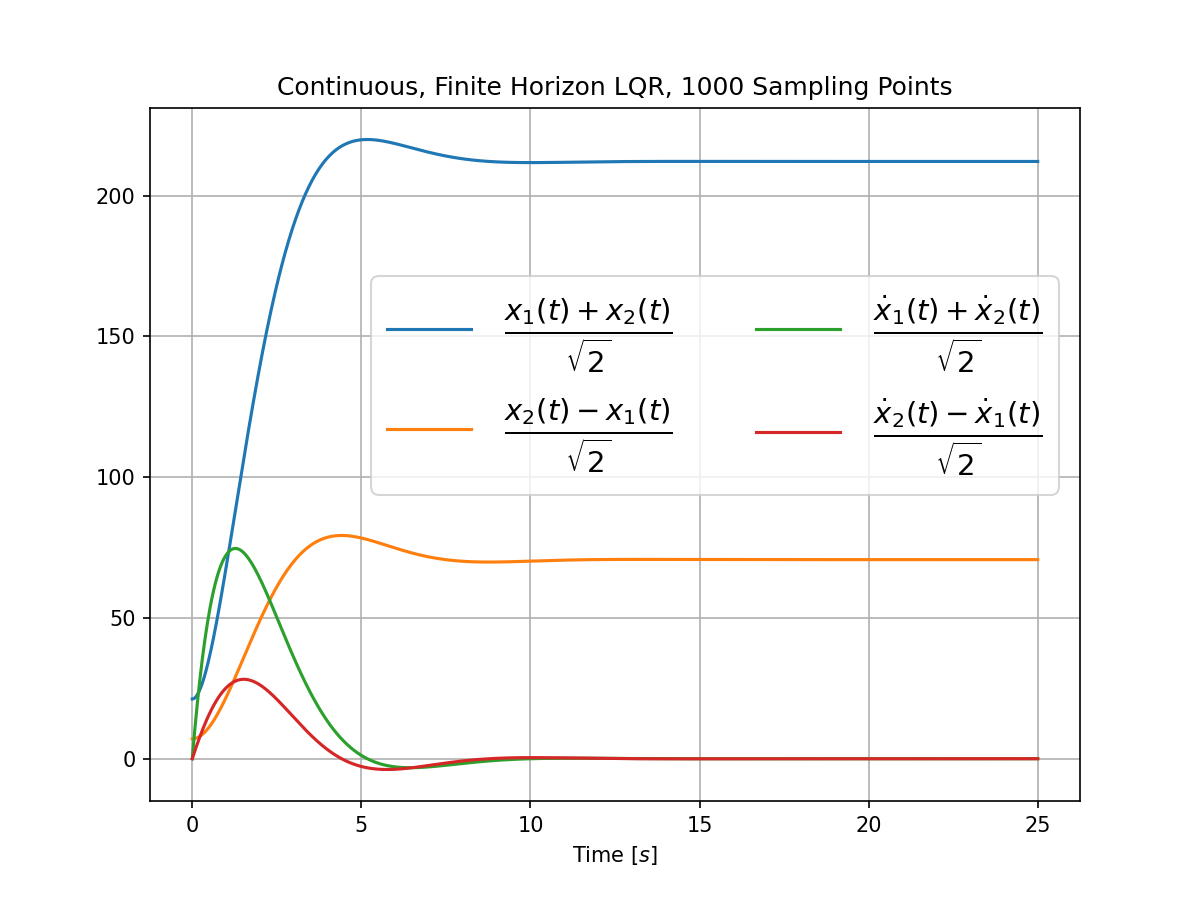
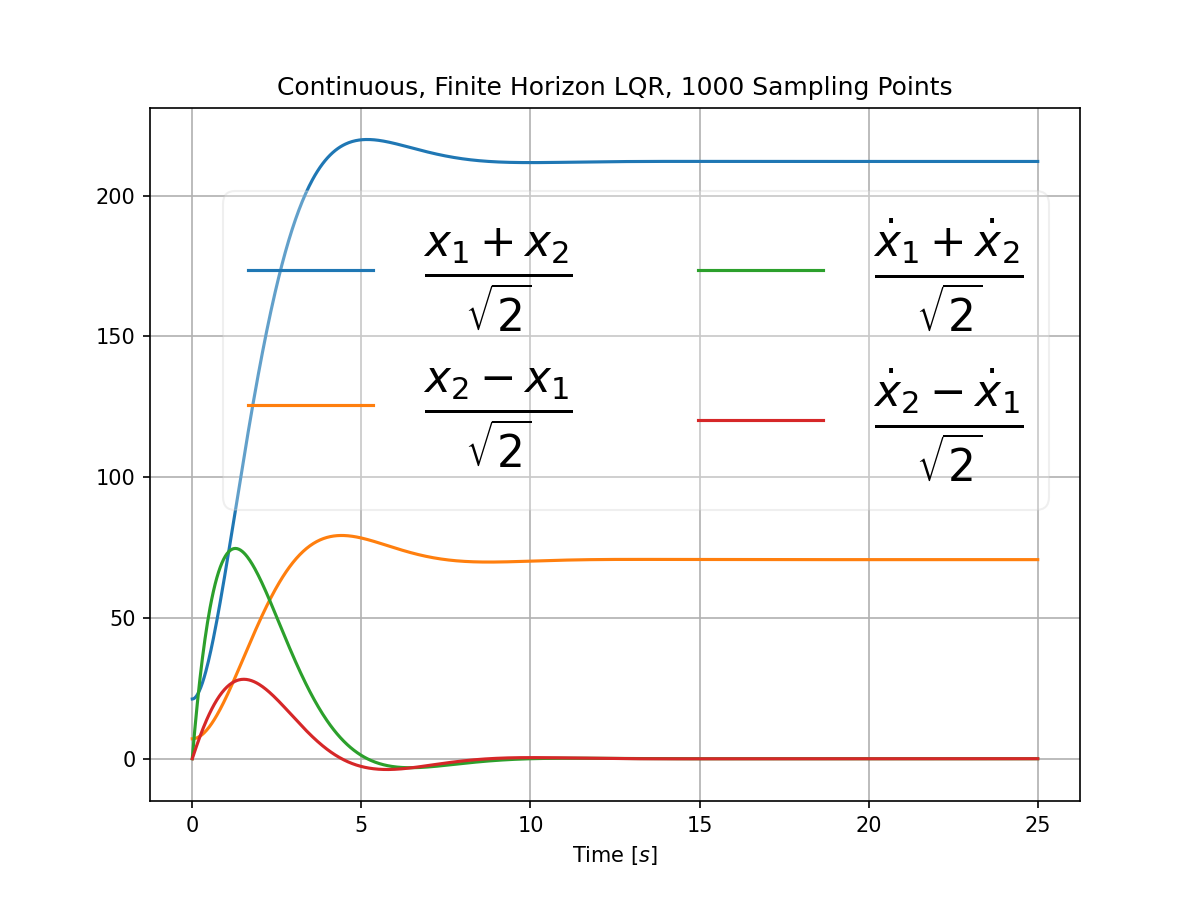
updated images font sizes

Changed region(s): [[0.3083, 0.2489, 0.8942, 0.56], [0.185, 0.4356, 0.3083, 0.4667], [0.2158, 0.28, 0.3083, 0.3111]]

diff --git a/src/PyDiffGame/examples/MassesWithSpringsComparison.py b/src/PyDiffGame/examples/MassesWithSpringsComparison.py
@@ -136,10 +136,10 @@ class MassesWithSpringsComparison(PyDiffGameLQRComparison):
         return all_unit_vectors
 
 
-N2_output_variables_names = ['$\\frac{x_1(t) + x_2(t)}{\\sqrt{2}}$',
-                             '$\\frac{x_2(t) - x_1(t)}{\\sqrt{2}}$',
-                             '$\\frac{\\dot{x}_1(t) + \\dot{x}_2(t)}{\\sqrt{2}}$',
-                             '$\\frac{\\dot{x}_2(t) - \\dot{x}_1(t)}{\\sqrt{2}}$']
+N2_output_variables_names = ['$\\frac{x_1 + x_2}{\\sqrt{2}}$',
+                             '$\\frac{x_2 - x_1}{\\sqrt{2}}$',
+                             '$\\frac{\\dot{x}_1 + \\dot{x}_2}{\\sqrt{2}}$',
+                             '$\\frac{\\dot{x}_2 - \\dot{x}_1}{\\sqrt{2}}$']
 
 
 def multiprocess_worker_function(N: int,
@@ -153,8 +153,7 @@ def multiprocess_worker_function(N: int,
     x_T = x_0 * 10 if N == 2 else np.array([(10 * i) ** 3 for i in range(1, N + 1)] + [0] * N)
 
     output_variables_names = N2_output_variables_names \
-        if N == 2 else [f'$q_{i}(t)$' for i in range(1, N + 1)] + ['$\\dot{q}_{' + str(i) + '}(t)$'
-                                                                   for i in range(1, N + 1)]
+        if N == 2 else [f'$q_{i}$' for i in range(1, N + 1)] + ['$\\dot{q}_{' + str(i) + '}$' for i in range(1, N + 1)]
 
     T_f = 25
     masses_with_springs = MassesWithSpringsComparison(N=N,
@@ -178,7 +177,7 @@ def multiprocess_worker_function(N: int,
 
 if __name__ == '__main__':
     d = 0.2
-    N = 2
+    N = 8
 
     Ns = [N]
     ks = [10]

diff --git a/src/PyDiffGame/PyDiffGame.py b/src/PyDiffGame/PyDiffGame.py
@@ -455,10 +455,11 @@ class PyDiffGame(ABC, Callable, Sequence):
                 labels = ["${\mathbf{x}}_{" + str(j) + "}$" for j in range(1, self._n + 1)]
 
             plt.legend(labels=labels,
-                       loc='upper left' if is_P else 'best',
-                       ncol=2,
-                       prop={'size': int(100 / self._n)},
-                       # bbox_to_anchor=(1, 0.75)
+                       loc='upper left' if is_P else 'right',
+                       ncol=4,
+                       prop={'size': 18},
+                       bbox_to_anchor=(1, 0.65),
+                       framealpha=0.3
                        )
 
         plt.grid()
